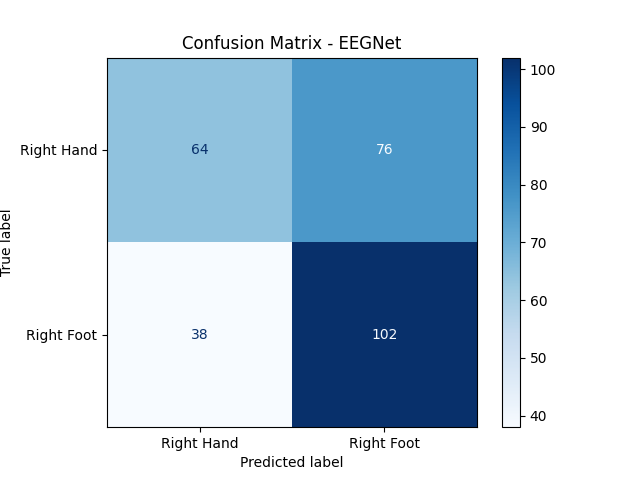
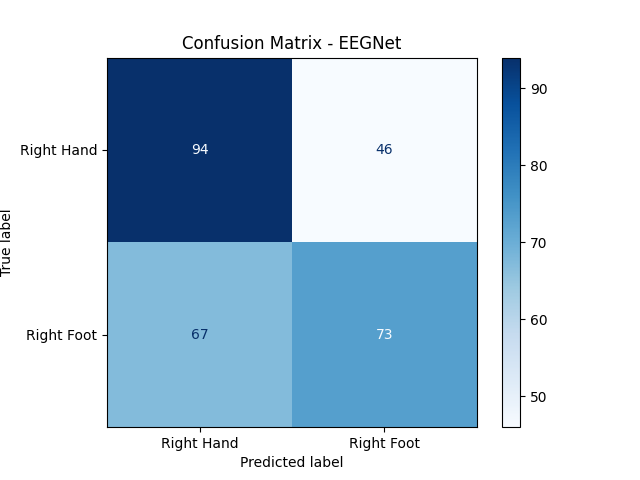
Fixes to test for CNN  overfitting

diff --git a/main.py b/main.py
@@ -66,14 +66,14 @@ def build_eegnet(T, C, F1=8, D=2, F2=16, dropout=0.5):
                          use_bias=False)(x)
     x = BatchNormalization()(x)
     x = Activation("elu")(x)
-    x = AveragePooling2D((4, 1))(x)
+    x = AveragePooling2D((2, 1))(x)
     x = Dropout(dropout)(x)
 
     # Block 2 - Separable convolution (temporal summary + feature mixing)
     x = SeparableConv2D(F2, (16, 1), padding="same", use_bias=False)(x)
     x = BatchNormalization()(x)
     x = Activation("elu")(x)
-    x = AveragePooling2D((8, 1))(x)
+    x = AveragePooling2D((4, 1))(x)
     x = Dropout(dropout)(x)
 
     # Classifier
